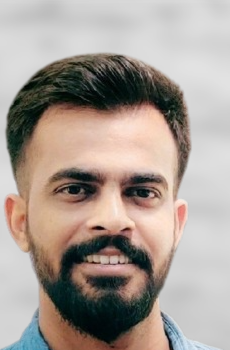
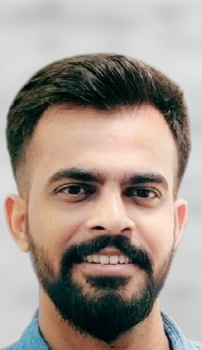
Nithya Image fixed

diff --git a/src/components/testimonial.js b/src/components/testimonial.js
@@ -24,7 +24,7 @@ const Testimonials = () => {
             author: "Nithya Rajan",
             role: "Technical Team Lead",
             linkedin: "https://www.linkedin.com/in/bearnithi/",
-            imageSrc: "assets/img/testimonial/NithyaSmall.png"
+            imageSrc: "assets/img/testimonial/Nithya.jpg"
         },
         {
             rating: 5,
